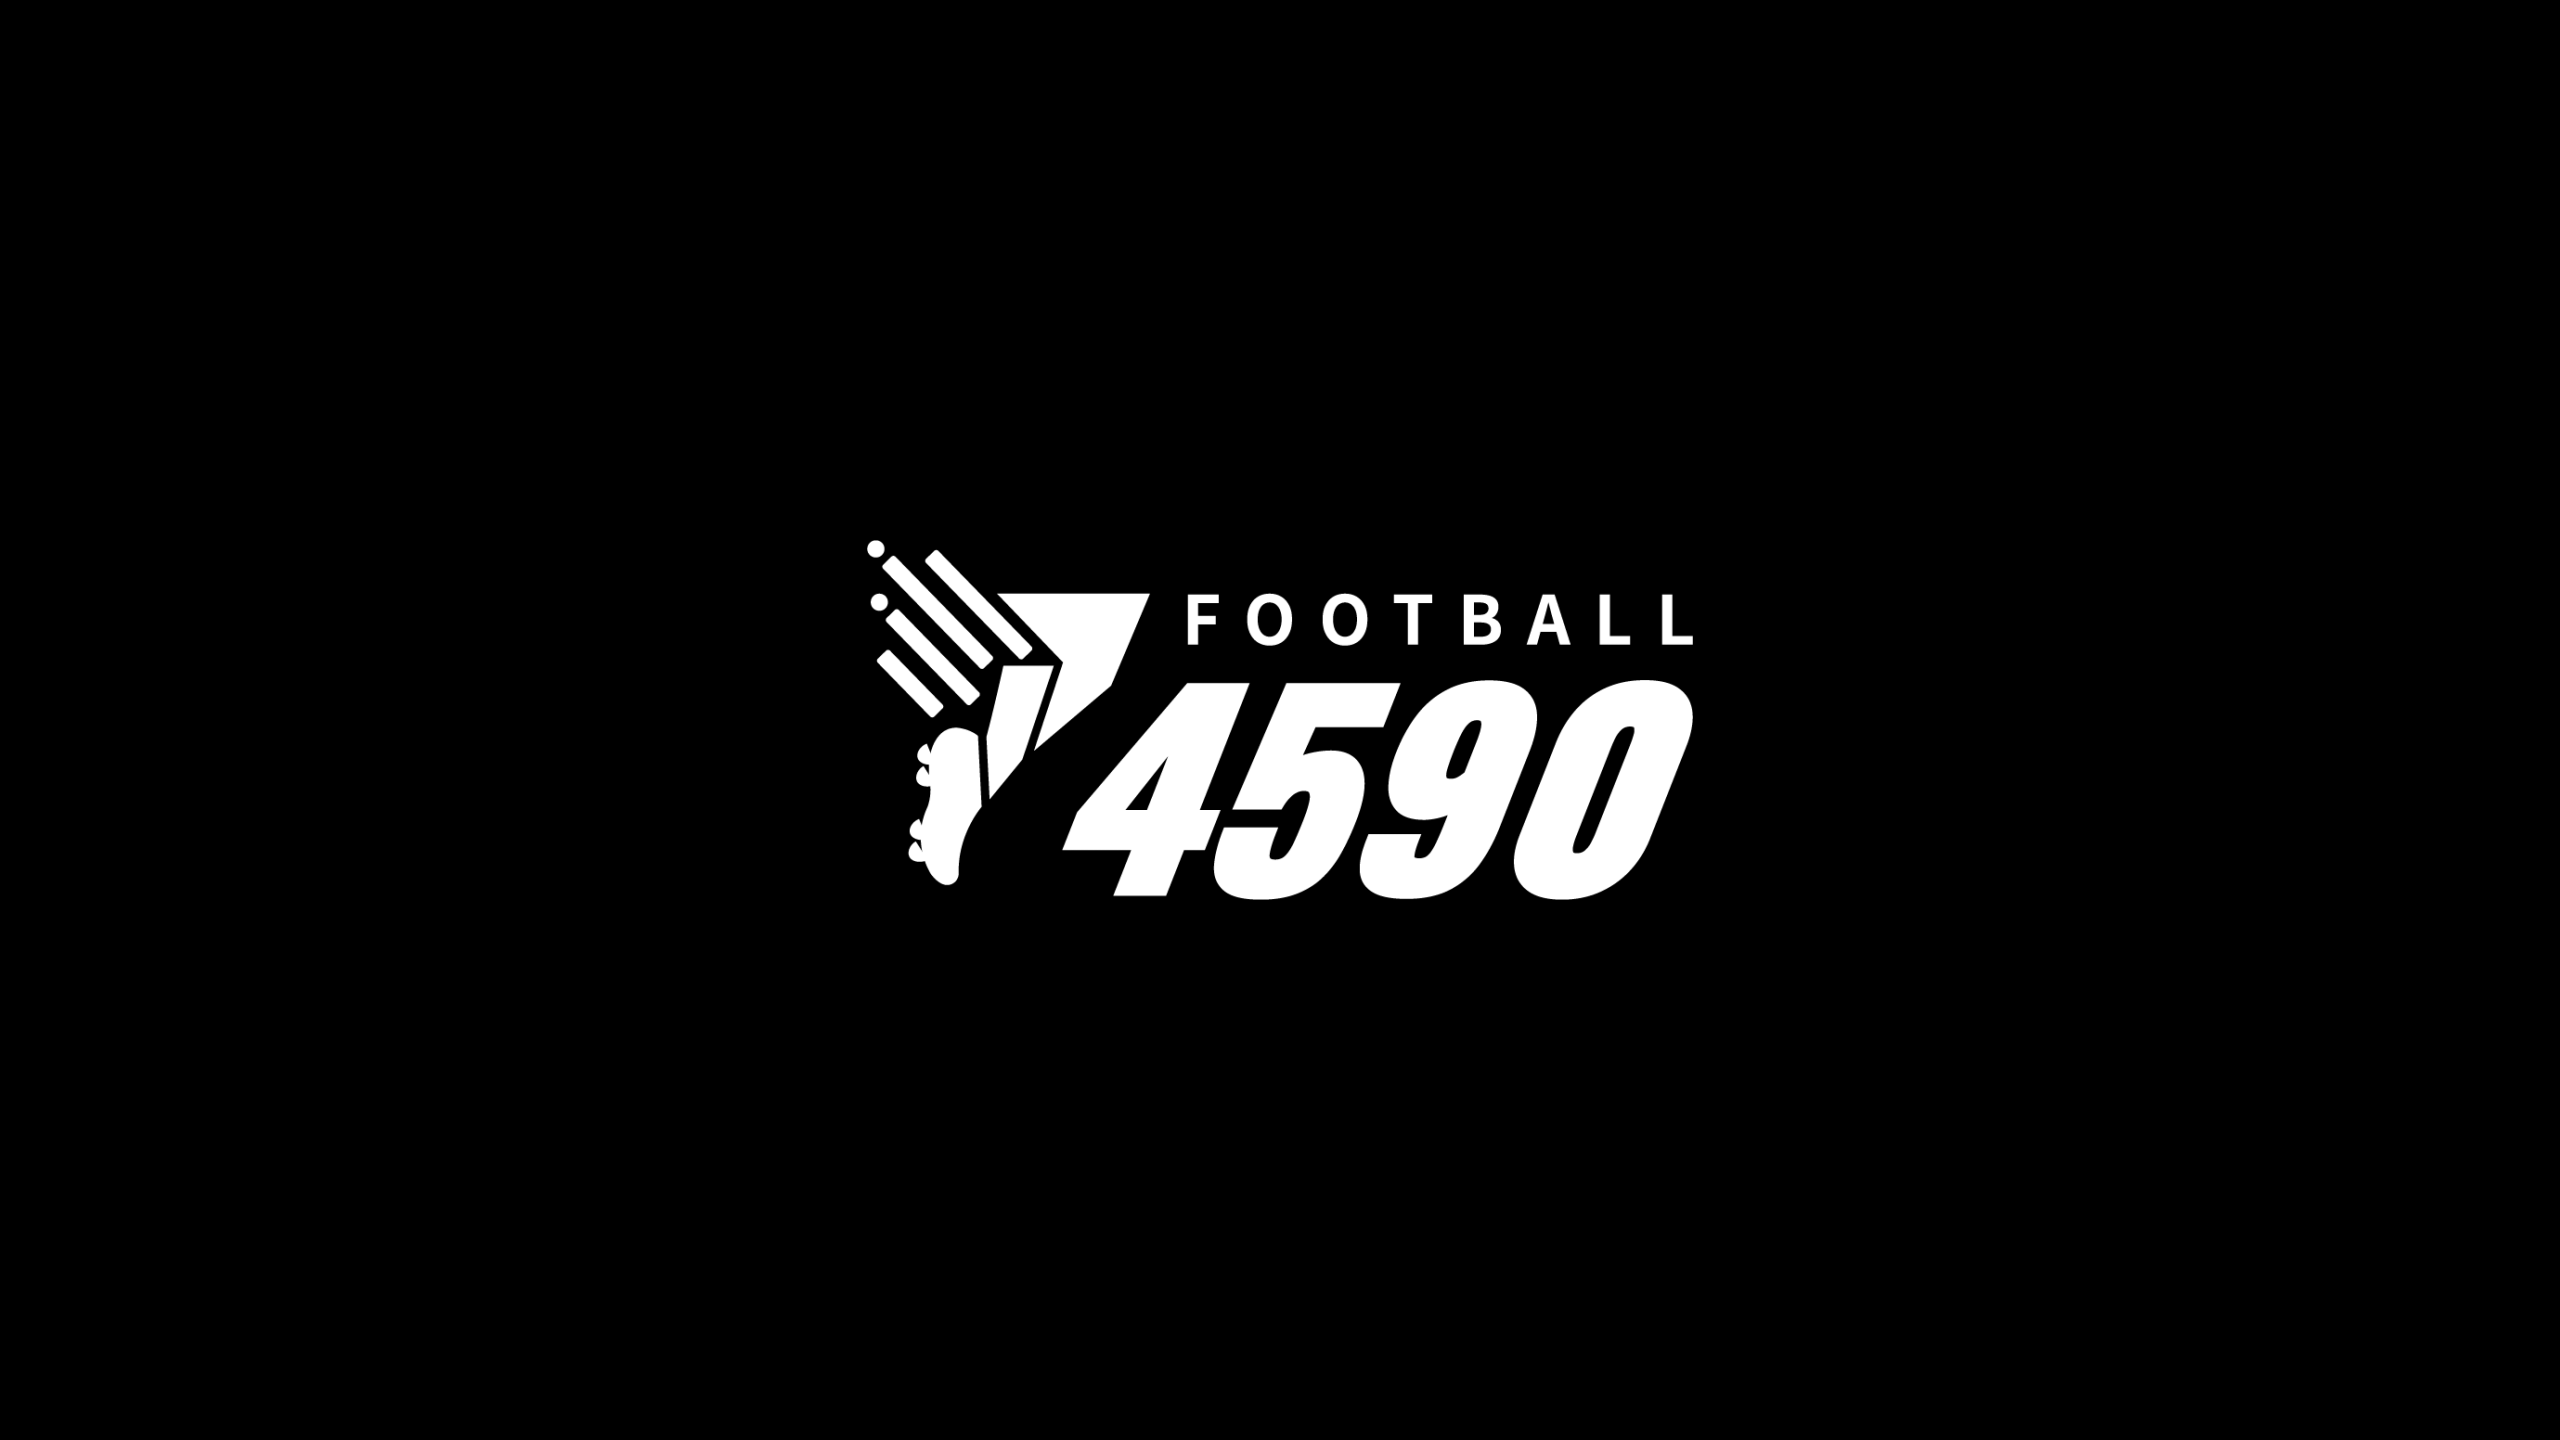
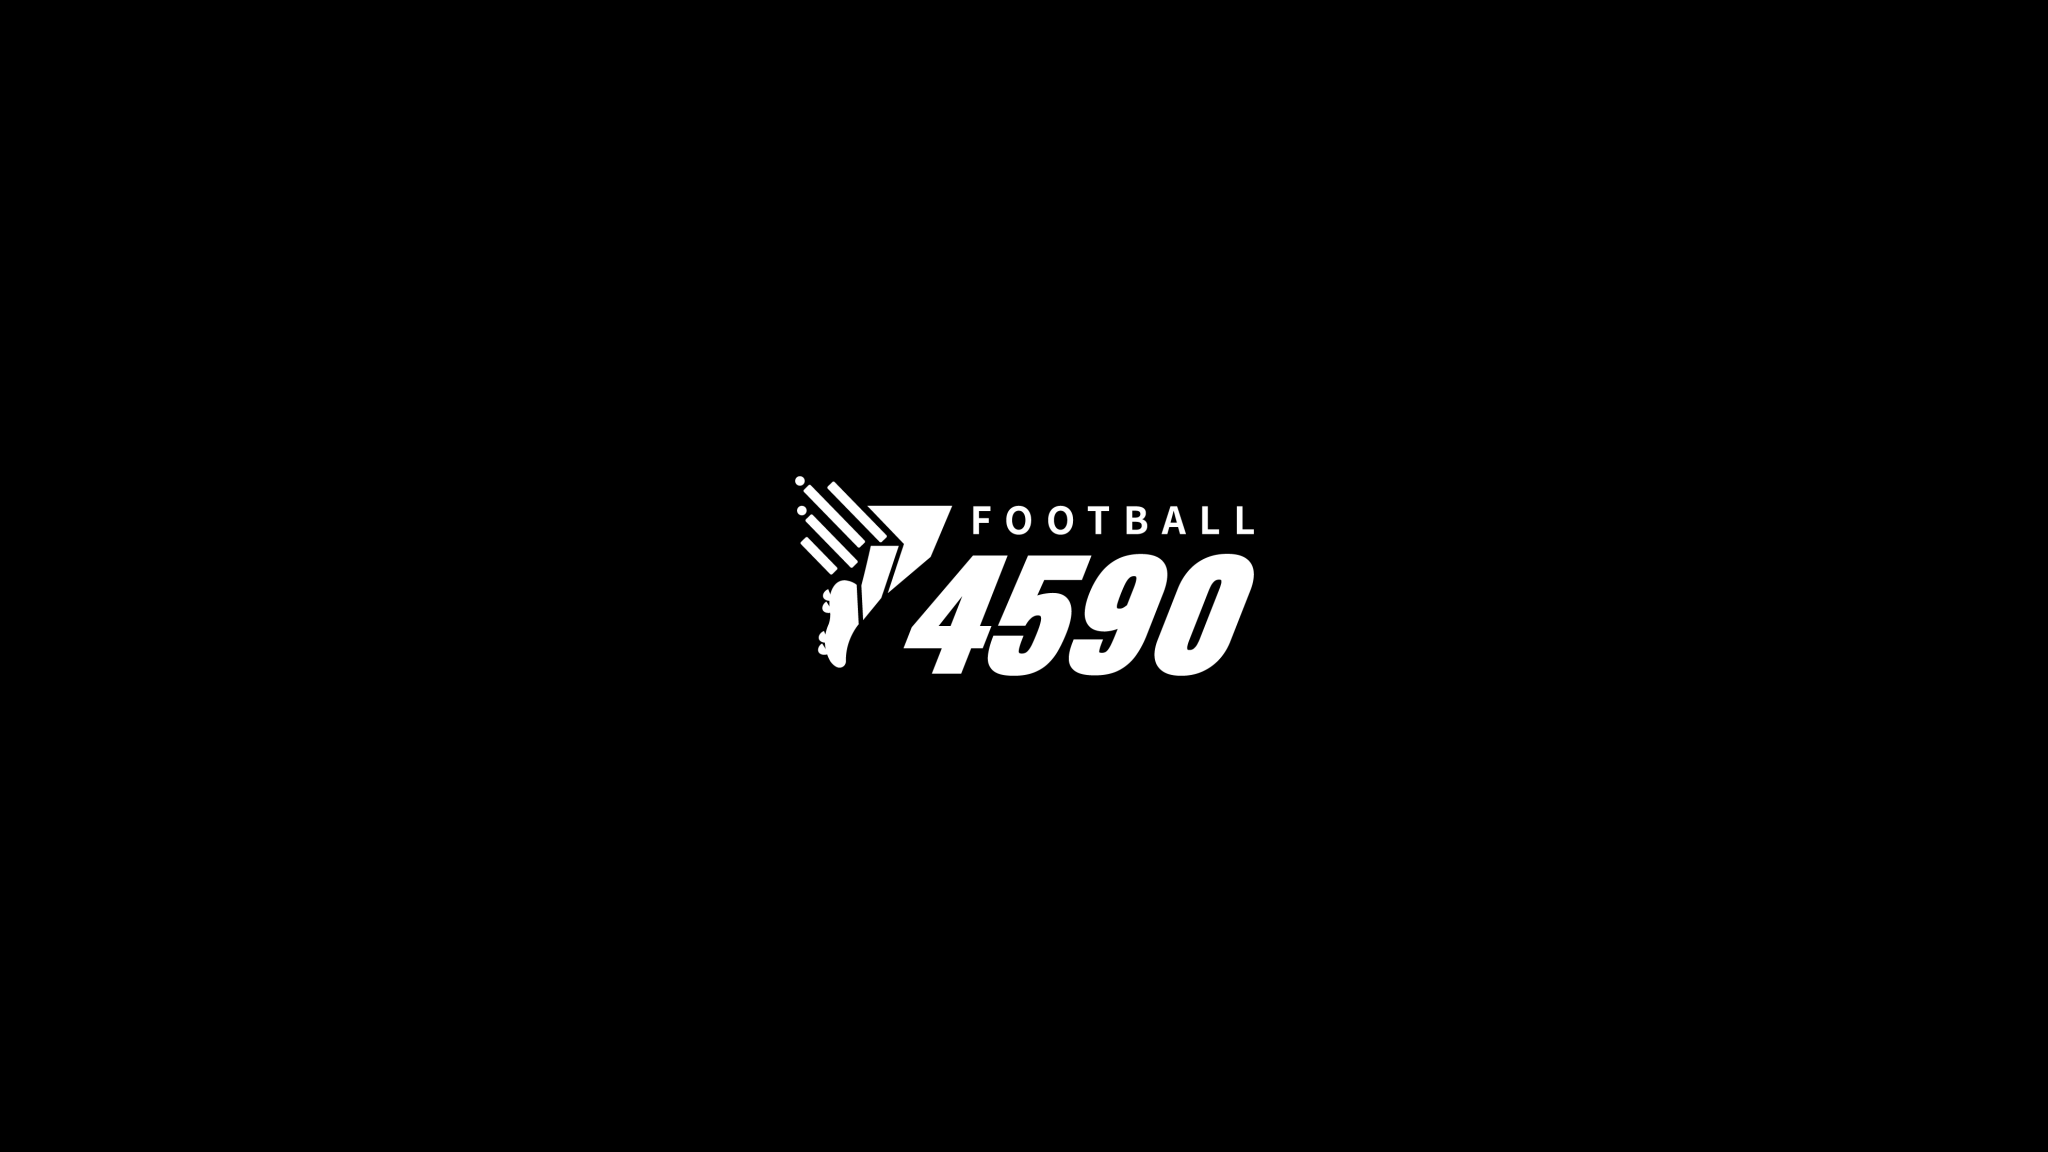
perf: 게시글 저장/삭제 최적화 + 게시판 목록 unstable_cache
게시글 저장 (create.ts):
- 정지 확인 + 게시판 조회 병렬 실행 (Promise.all)
- posts_content, card_links, 로그, 보상 → fire-and-forget
- 체감 ~2배 빨라짐 (700ms → 300ms)

게시글 삭제 (delete.ts):
- 댓글 + 좋아요 + posts_content + card_links 병렬 삭제
- posts_content/card_links 삭제 누락 수정
- 삭제 후 404 방지 (revalidateTag 제거 + router.replace)
- alert → toast

게시판 목록 (getBoardPageAllData.ts):
- unstable_cache 30초 적용 (stale-while-revalidate)
- 동적 렌더링에서도 캐시 히트 → 스켈레톤 최소화

Changed region(s): [[0.3438, 0.375, 0.6875, 0.625]]

diff --git a/src/domains/boards/actions/posts/delete.ts b/src/domains/boards/actions/posts/delete.ts
@@ -13,127 +13,72 @@ export async function deletePost(
   userId: string
 ): Promise<PostActionResponse> {
   if (!postId || !userId) {
-    return {
-      success: false,
-      error: '필수 입력값이 누락되었습니다.'
-    };
+    return { success: false, error: '필수 입력값이 누락되었습니다.' };
   }
-  
+
   try {
     const supabase = await getSupabaseAction();
-    
     if (!supabase) {
-      return {
-        success: false,
-        error: 'Supabase 클라이언트 초기화 오류'
-      };
+      return { success: false, error: 'Supabase 클라이언트 초기화 오류' };
     }
-    
-    // 게시글이 존재하는지 확인 & 작성자 일치 확인
+
+    // 게시글 존재 + 작성자 확인 (boards JOIN으로 slug도 함께 조회)
     const { data: existingPost, error: existingPostError } = await supabase
       .from('posts')
       .select('user_id, board_id, post_number, boards(slug)')
       .eq('id', postId)
       .single();
-      
-    if (existingPostError) {
-      return {
-        success: false,
-        error: `게시글을 찾을 수 없습니다: ${existingPostError.message}`
-      };
+
+    if (existingPostError || !existingPost) {
+      return { success: false, error: '해당 게시글이 존재하지 않습니다.' };
     }
-    
-    if (!existingPost) {
-      return {
-        success: false,
-        error: '해당 게시글이 존재하지 않습니다.'
-      };
-    }
-    
+
     if (existingPost.user_id !== userId) {
-      return {
-        success: false,
-        error: '본인이 작성한 게시글만 삭제할 수 있습니다.'
-      };
+      return { success: false, error: '본인이 작성한 게시글만 삭제할 수 있습니다.' };
     }
-    
-    // 게시판 정보 가져오기
-    const { data: boardData, error: boardError } = await supabase
-      .from('boards')
-      .select('slug')
-      .eq('id', existingPost.board_id || '')
-      .single();
-    
-    if (boardError) {
-      return {
-        success: false,
-        error: `게시판 정보 조회 실패: ${boardError.message}`
+
+    const boardSlug = (existingPost.boards as { slug: string } | null)?.slug || undefined;
+
+    // 관련 데이터 병렬 삭제 (댓글 + 좋아요 + posts_content + card_links)
+    const supabaseAny = supabase as unknown as {
+      from: (table: string) => {
+        delete: () => { eq: (col: string, val: string) => Promise<{ error: { message: string } | null }> };
       };
+    };
+
+    const [commentsResult, likesResult] = await Promise.all([
+      supabase.from('comments').delete().eq('post_id', postId),
+      supabase.from('post_likes').delete().eq('post_id', postId),
+      supabaseAny.from('posts_content').delete().eq('post_id', postId),
+      supabaseAny.from('post_card_links').delete().eq('post_id', postId),
+    ]);
+
+    if (commentsResult.error) {
+      return { success: false, error: `댓글 삭제 실패: ${commentsResult.error.message}` };
     }
-    
-    // 관련 댓글 삭제
-    const { error: commentsError } = await supabase
-      .from('comments')
-      .delete()
-      .eq('post_id', postId);
-    
-    if (commentsError) {
-      return {
-        success: false,
-        error: `댓글 삭제 실패: ${commentsError.message}`
-      };
+    if (likesResult.error) {
+      return { success: false, error: `좋아요 삭제 실패: ${likesResult.error.message}` };
     }
-    
-    // 관련 좋아요/싫어요 삭제
-    const { error: likesError } = await supabase
-      .from('post_likes')
-      .delete()
-      .eq('post_id', postId);
-    
-    if (likesError) {
-      return {
-        success: false,
-        error: `좋아요/싫어요 삭제 실패: ${likesError.message}`
-      };
-    }
-    
+
     // 게시글 삭제
     const { error: deleteError } = await supabase
       .from('posts')
       .delete()
       .eq('id', postId);
 
-    // 메타데이터 캐시 무효화
-    if (existingPost.board_id && existingPost.post_number) {
-      revalidateTag(`post-${existingPost.board_id}-${existingPost.post_number}`);
+    if (deleteError) {
+      return { success: false, error: `게시글 삭제 실패: ${deleteError.message}` };
     }
 
-    // 유저 통계 캐시 무효화 (게시글 수 변경)
+    // 캐시 무효화 (게시판 목록 + 유저 통계만, 삭제된 게시글 페이지는 무효화 안 함)
     revalidateTag(`user-stats-${userId}`);
 
-    if (deleteError) {
-      return {
-        success: false,
-        error: `게시글 삭제 실패: ${deleteError.message}`
-      };
-    }
-    
-    // 게시글 삭제 성공 로그 기록
-    await logUserAction(
-      'POST_DELETE',
-      `게시글 삭제 (ID: ${postId})`,
-      userId,
-      {
-        postId,
-        boardId: existingPost.board_id,
-        boardSlug: boardData.slug
-      }
-    );
-    
-    return {
-      success: true,
-      boardSlug: boardData.slug || undefined
-    };
+    // 로그 기록 (fire-and-forget)
+    logUserAction('POST_DELETE', `게시글 삭제 (ID: ${postId})`, userId, {
+      postId, boardId: existingPost.board_id, boardSlug
+    }).catch(() => {});
+
+    return { success: true, boardSlug };
   } catch (error) {
     console.error('[서버] 게시글 삭제 예외 발생:', error);
     return {
@@ -141,4 +86,4 @@ export async function deletePost(
       error: error instanceof Error ? error.message : '게시글 삭제 중 오류가 발생했습니다.'
     };
   }
-} 
+}

diff --git a/src/domains/boards/actions/posts/create.ts b/src/domains/boards/actions/posts/create.ts
@@ -53,24 +53,22 @@ async function createPostInternal(params: {
   const { title, content, boardId, userId, isNotice, noticeType, noticeBoards, noticeOrder, dealInfo } = params;
 
   try {
-    // 계정 정지 상태 확인
-    const suspensionCheck = await checkSuspensionGuard(userId);
-    if (suspensionCheck.isSuspended) {
-      return { success: false, error: suspensionCheck.message || '계정이 정지되어 게시글을 작성할 수 없습니다.' };
-    }
-
     const supabase = await getSupabaseAction();
     if (!supabase) {
       return { success: false, error: 'Supabase 클라이언트 초기화 오류' };
     }
 
-    // 게시판 정보 조회
-    const { data: boardData, error: boardError } = await supabase
-      .from('boards')
-      .select('id, name, slug')
-      .eq('id', boardId)
-      .single();
+    // 정지 확인 + 게시판 조회 병렬 실행
+    const [suspensionCheck, boardResult] = await Promise.all([
+      checkSuspensionGuard(userId),
+      supabase.from('boards').select('id, name, slug').eq('id', boardId).single(),
+    ]);
 
+    if (suspensionCheck.isSuspended) {
+      return { success: false, error: suspensionCheck.message || '계정이 정지되어 게시글을 작성할 수 없습니다.' };
+    }
+
+    const { data: boardData, error: boardError } = boardResult;
     if (boardError || !boardData) {
       return { success: false, error: '게시판 정보를 찾을 수 없습니다.' };
     }
@@ -135,82 +133,54 @@ async function createPostInternal(params: {
       return { success: false, error: '게시글 생성은 되었으나 데이터를 받아오지 못했습니다.' };
     }
 
-    // posts_content에 본문 저장 (상세/검색 조회용)
-    // 트리거 없이 앱에서 직접 이중 저장
-    try {
-      const contentText = extractSummary(content, 10000); // plain text 전체
-      const supabaseAny = supabase as unknown as {
-        from: (table: string) => {
-          insert: (data: unknown) => Promise<{ error: { message: string } | null }>;
-        };
-      };
-      const { error: contentError } = await supabaseAny
-        .from('posts_content')
-        .insert({
-          post_id: data.id,
-          content: parsedContent,
-          content_text: contentText,
-        });
-      if (contentError) {
-        console.error('[posts_content INSERT 실패]', contentError.message, 'post_id:', data.id);
-      }
-    } catch (contentErr) {
-      console.error('[posts_content INSERT 예외]', contentErr);
-    }
-
-    // 카드 링크 저장 (실패해도 게시글 생성은 성공)
-    // post_card_links 테이블은 Supabase 타입 생성 후 추가되어 타입 미포함
-    try {
-      const cardLinks = extractCardLinks(parsedContent);
-      if (cardLinks.length > 0) {
-        const cardLinksData = cardLinks.map(link => ({ ...link, post_id: data.id }));
-        // 타입 정의에 없는 테이블 접근을 위한 우회
-        const supabaseAny = supabase as unknown as { from: (table: string) => { insert: (data: unknown) => Promise<unknown> } };
-        await supabaseAny.from('post_card_links').insert(cardLinksData);
-      }
-    } catch (cardErr) {
-      console.error('카드 링크 저장 실패:', cardErr);
-    }
-
     // 캐시 갱신 (즉시 실행 - 사용자 경험에 중요)
     const boardSlug = boardData.slug || boardId;
     revalidatePath(`/boards/${boardSlug}`);
     revalidatePath('/boards');
-
-    // 유저 통계 캐시 무효화 (게시글 수 변경)
     revalidateTag(`user-stats-${userId}`);
 
-    // 로그 및 보상 처리 (병렬 실행 - 응답 차단하지 않음)
-    // 실패해도 게시글 생성은 이미 성공했으므로 무시
+    // 후처리: 본문 분리 저장, 카드 링크, 로그, 보상 (전부 fire-and-forget)
+    // 게시글 INSERT 이미 성공 → 사용자 응답 차단하지 않음
+    const postId = data.id;
+    const postNumber = data.post_number;
     Promise.all([
+      // posts_content 분리 저장
+      (async () => {
+        try {
+          const contentText = extractSummary(content, 10000);
+          const supabaseAny = supabase as unknown as {
+            from: (table: string) => {
+              insert: (data: unknown) => Promise<{ error: { message: string } | null }>;
+            };
+          };
+          const { error: contentError } = await supabaseAny
+            .from('posts_content')
+            .insert({ post_id: postId, content: parsedContent, content_text: contentText });
+          if (contentError) console.error('[posts_content INSERT 실패]', contentError.message);
+        } catch (e) { console.error('[posts_content INSERT 예외]', e); }
+      })(),
+      // 카드 링크 저장
+      (async () => {
+        try {
+          const cardLinks = extractCardLinks(parsedContent);
+          if (cardLinks.length > 0) {
+            const supabaseAny = supabase as unknown as { from: (table: string) => { insert: (data: unknown) => Promise<unknown> } };
+            await supabaseAny.from('post_card_links').insert(cardLinks.map(link => ({ ...link, post_id: postId })));
+          }
+        } catch (e) { console.error('카드 링크 저장 실패:', e); }
+      })(),
       // 로그 기록
       logUserAction('POST_CREATE', `게시글 생성: ${title} (게시판: ${boardData.name})`, userId, {
-        postId: data.id,
-        postNumber: data.post_number,
-        boardId,
-        boardName: boardData.name,
-        boardSlug: boardData.slug,
-        title
+        postId, postNumber, boardId, boardName: boardData.name, boardSlug: boardData.slug, title
       }),
       // 보상 처리
-      getActivityTypeValues().then(activityTypes =>
-        rewardUserActivity(userId, activityTypes.POST_CREATION, data.id)
-      ),
-      // WebSub Hub에 RSS 업데이트 알림 (구글 실시간 색인)
+      getActivityTypeValues().then(types => rewardUserActivity(userId, types.POST_CREATION, postId)),
+      // WebSub Hub 알림
       pingWebSubHub(),
-      // 첫 게시글 마일스톤 체크
-      supabase
-        .from('posts')
-        .select('*', { count: 'exact', head: true })
-        .eq('user_id', userId)
-        .then(({ count: postCount }) => {
-          if (postCount === 1) {
-            return checkReferralMilestone(userId, 'first_post');
-          }
-        })
-    ]).catch(err => {
-      console.error('게시글 생성 후처리 실패 (무시됨):', err);
-    });
+      // 첫 게시글 마일스톤
+      supabase.from('posts').select('*', { count: 'exact', head: true }).eq('user_id', userId)
+        .then(({ count }) => { if (count === 1) return checkReferralMilestone(userId, 'first_post'); }),
+    ]).catch(err => console.error('게시글 후처리 실패 (무시됨):', err));
 
     return { success: true, post: data as CreatedPost };
   } catch (error) {

diff --git a/src/domains/boards/components/post/PostFooter.tsx b/src/domains/boards/components/post/PostFooter.tsx
@@ -7,6 +7,7 @@ import { PenLine, Edit, Trash } from 'lucide-react';
 import { deletePost } from '@/domains/boards/actions/posts/index';
 import ReportButton from '@/domains/reports/components/ReportButton';
 import { Button } from '@/shared/components/ui';
+import { toast } from 'sonner';
 
 interface PostFooterProps {
   boardSlug: string;
@@ -47,19 +48,17 @@ export default function PostFooter({
       const response = await deletePost(postId, userId);
       
       if (!response.success) {
-        alert(`게시글 삭제 중 오류가 발생했습니다: ${response.error}`);
+        toast.error(response.error || '게시글 삭제 중 오류가 발생했습니다.');
         setIsDeleting(false);
         return;
       }
-      
-      // 삭제 성공 - 게시판 목록으로 강제 리다이렉트
-      const targetUrl = `/boards/${response.boardSlug || boardSlug}`;
-      alert('게시글이 삭제되었습니다.');
 
-      // window.location을 사용하여 강제 페이지 이동 (완전한 새로고침)
-      window.location.href = targetUrl;
+      // 삭제 성공 - 게시판 목록으로 즉시 이동 (404 방지)
+      const targetUrl = `/boards/${response.boardSlug || boardSlug}`;
+      toast.success('게시글이 삭제되었습니다.');
+      router.replace(targetUrl);
     } catch {
-      alert(`게시글 삭제 중 오류가 발생했습니다.`);
+      toast.error('게시글 삭제 중 오류가 발생했습니다.');
       setIsDeleting(false);
     }
   };

diff --git a/src/domains/boards/actions/getBoardPageAllData.ts b/src/domains/boards/actions/getBoardPageAllData.ts
@@ -1,5 +1,6 @@
 'use server';
 
+import { unstable_cache } from 'next/cache';
 import { getBoardPageData } from './getBoards';
 import { fetchPosts } from './getPosts';
 import { getBoardPopularPosts, type PopularPost } from './getPopularPosts';
@@ -100,6 +101,19 @@ export interface BoardPageError {
  * - getSupabaseServer() (HoverMenu용)
  */
 export async function getBoardPageAllData(
+  slug: string,
+  currentPage: number,
+  fromParam?: string,
+  store?: string
+): Promise<BoardPageAllData | BoardPageError> {
+  return unstable_cache(
+    () => _getBoardPageAllDataImpl(slug, currentPage, fromParam, store),
+    ['board-page', slug, String(currentPage), fromParam || '', store || ''],
+    { revalidate: 30, tags: ['board-page', `board-${slug}`] }
+  )();
+}
+
+async function _getBoardPageAllDataImpl(
   slug: string,
   currentPage: number,
   fromParam?: string,